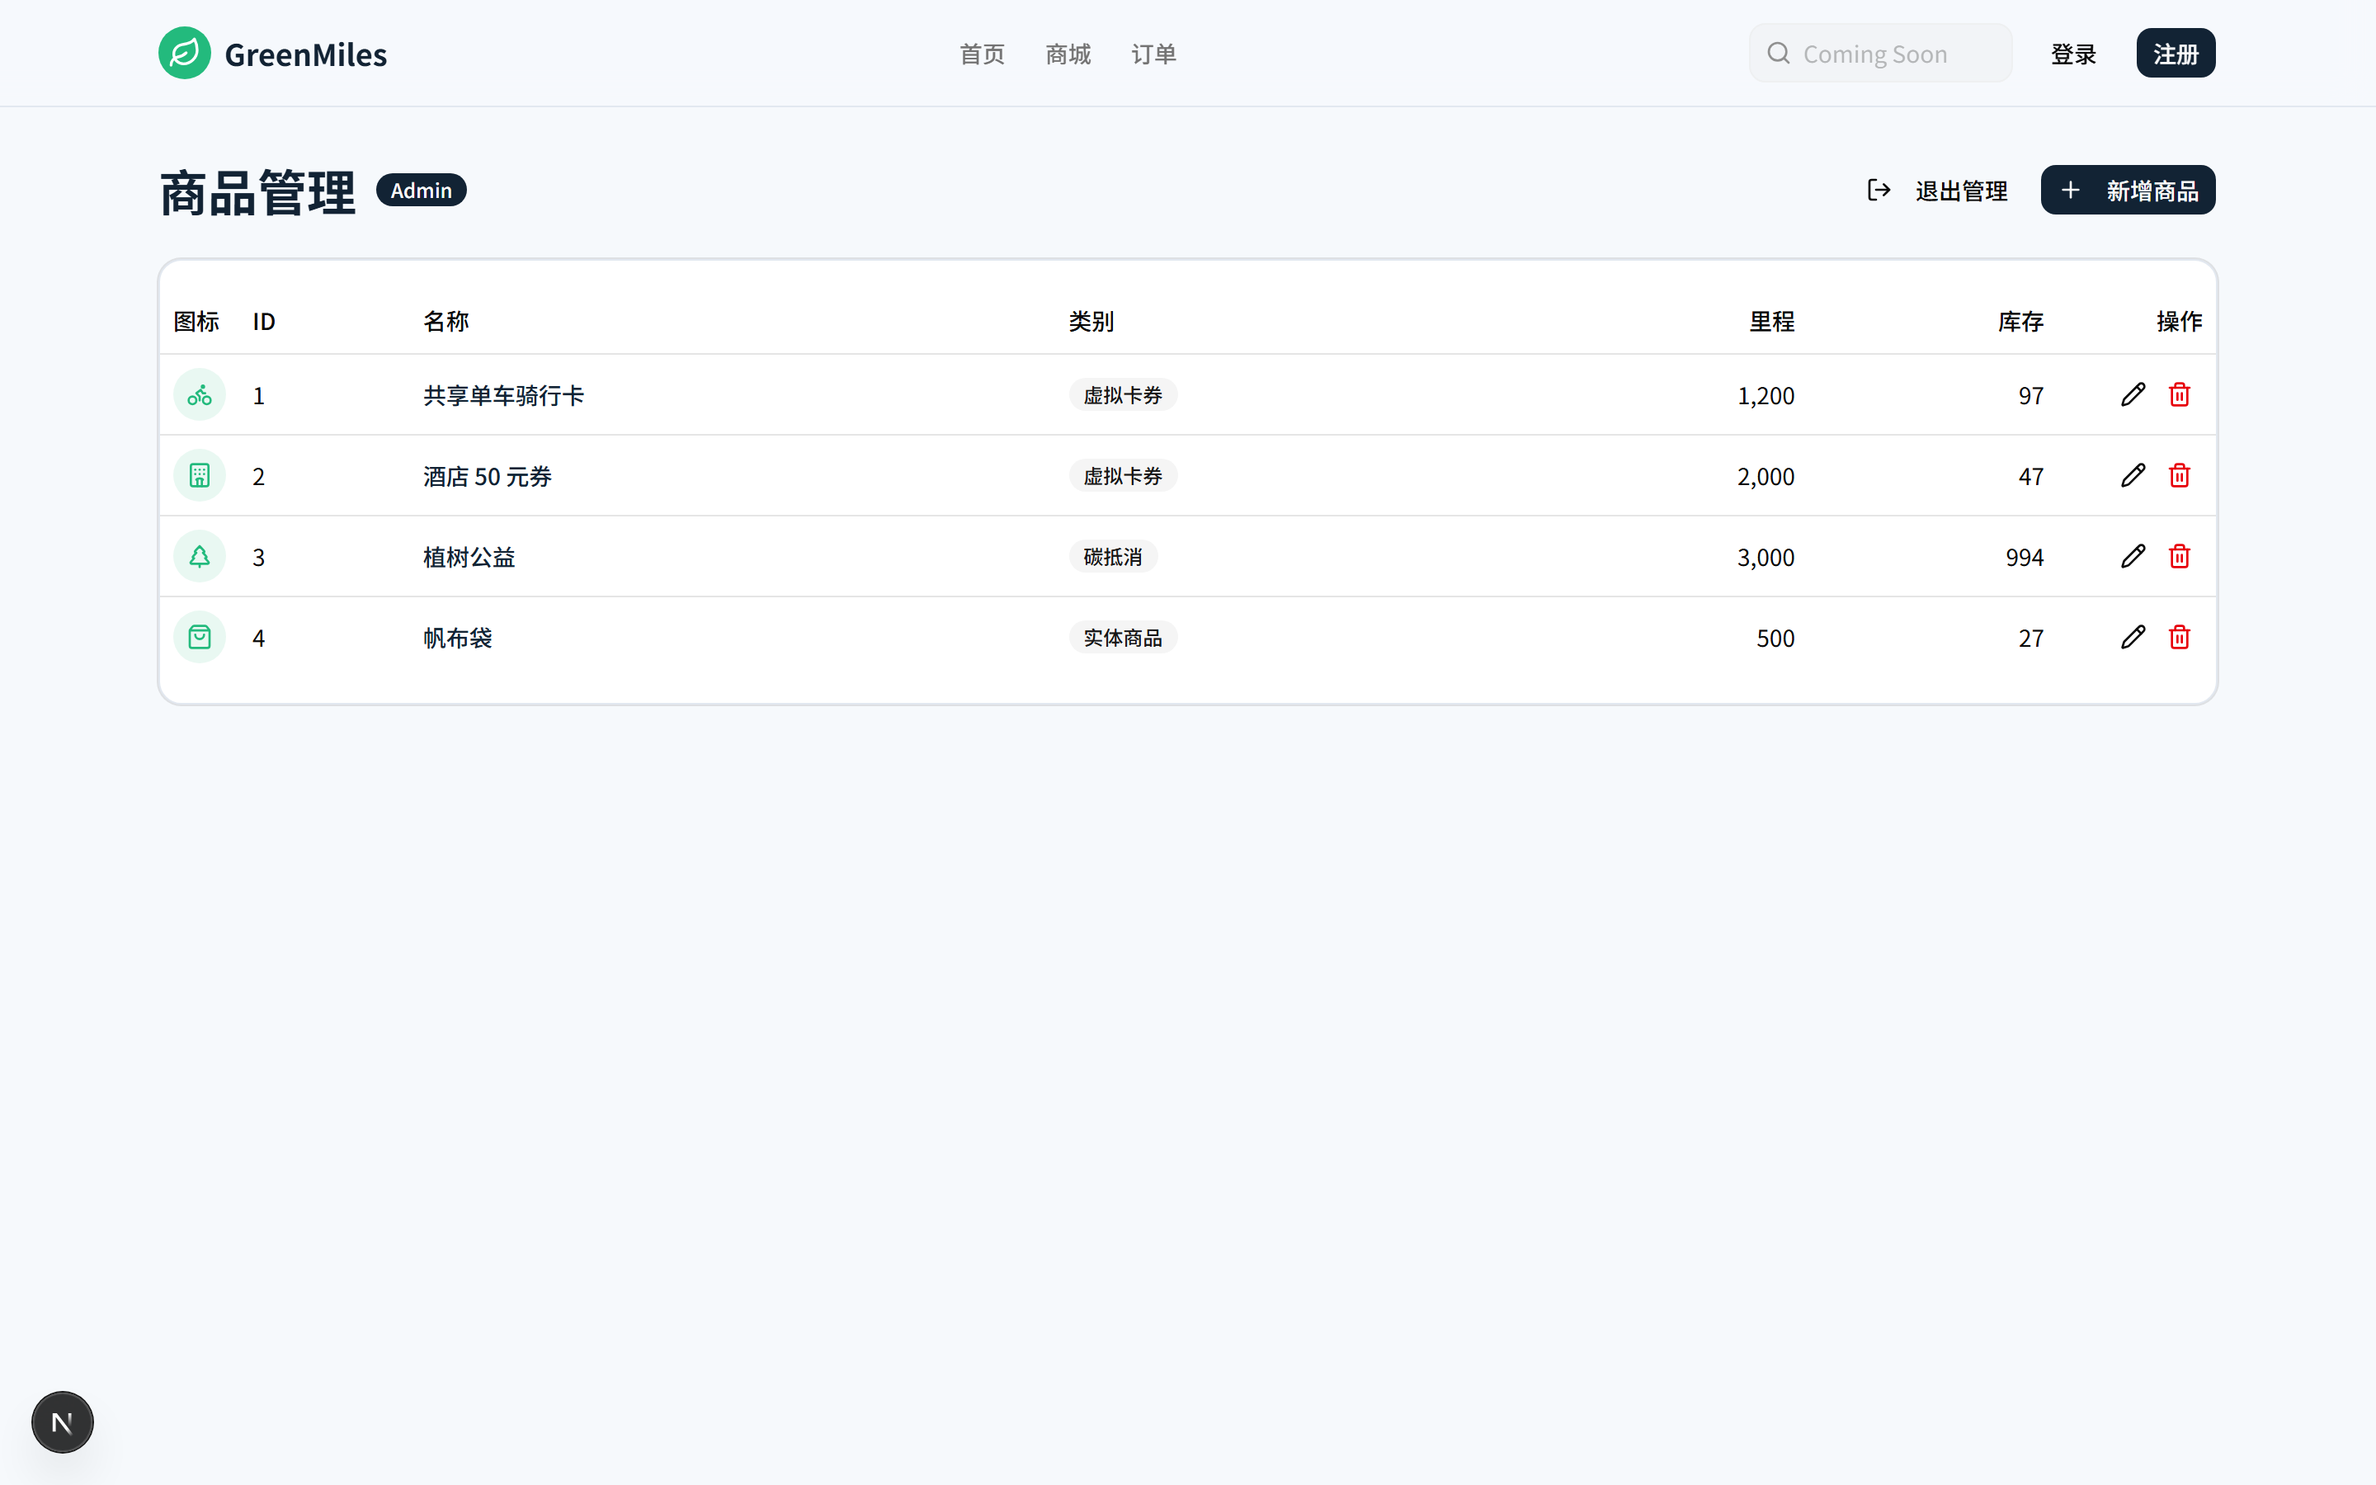
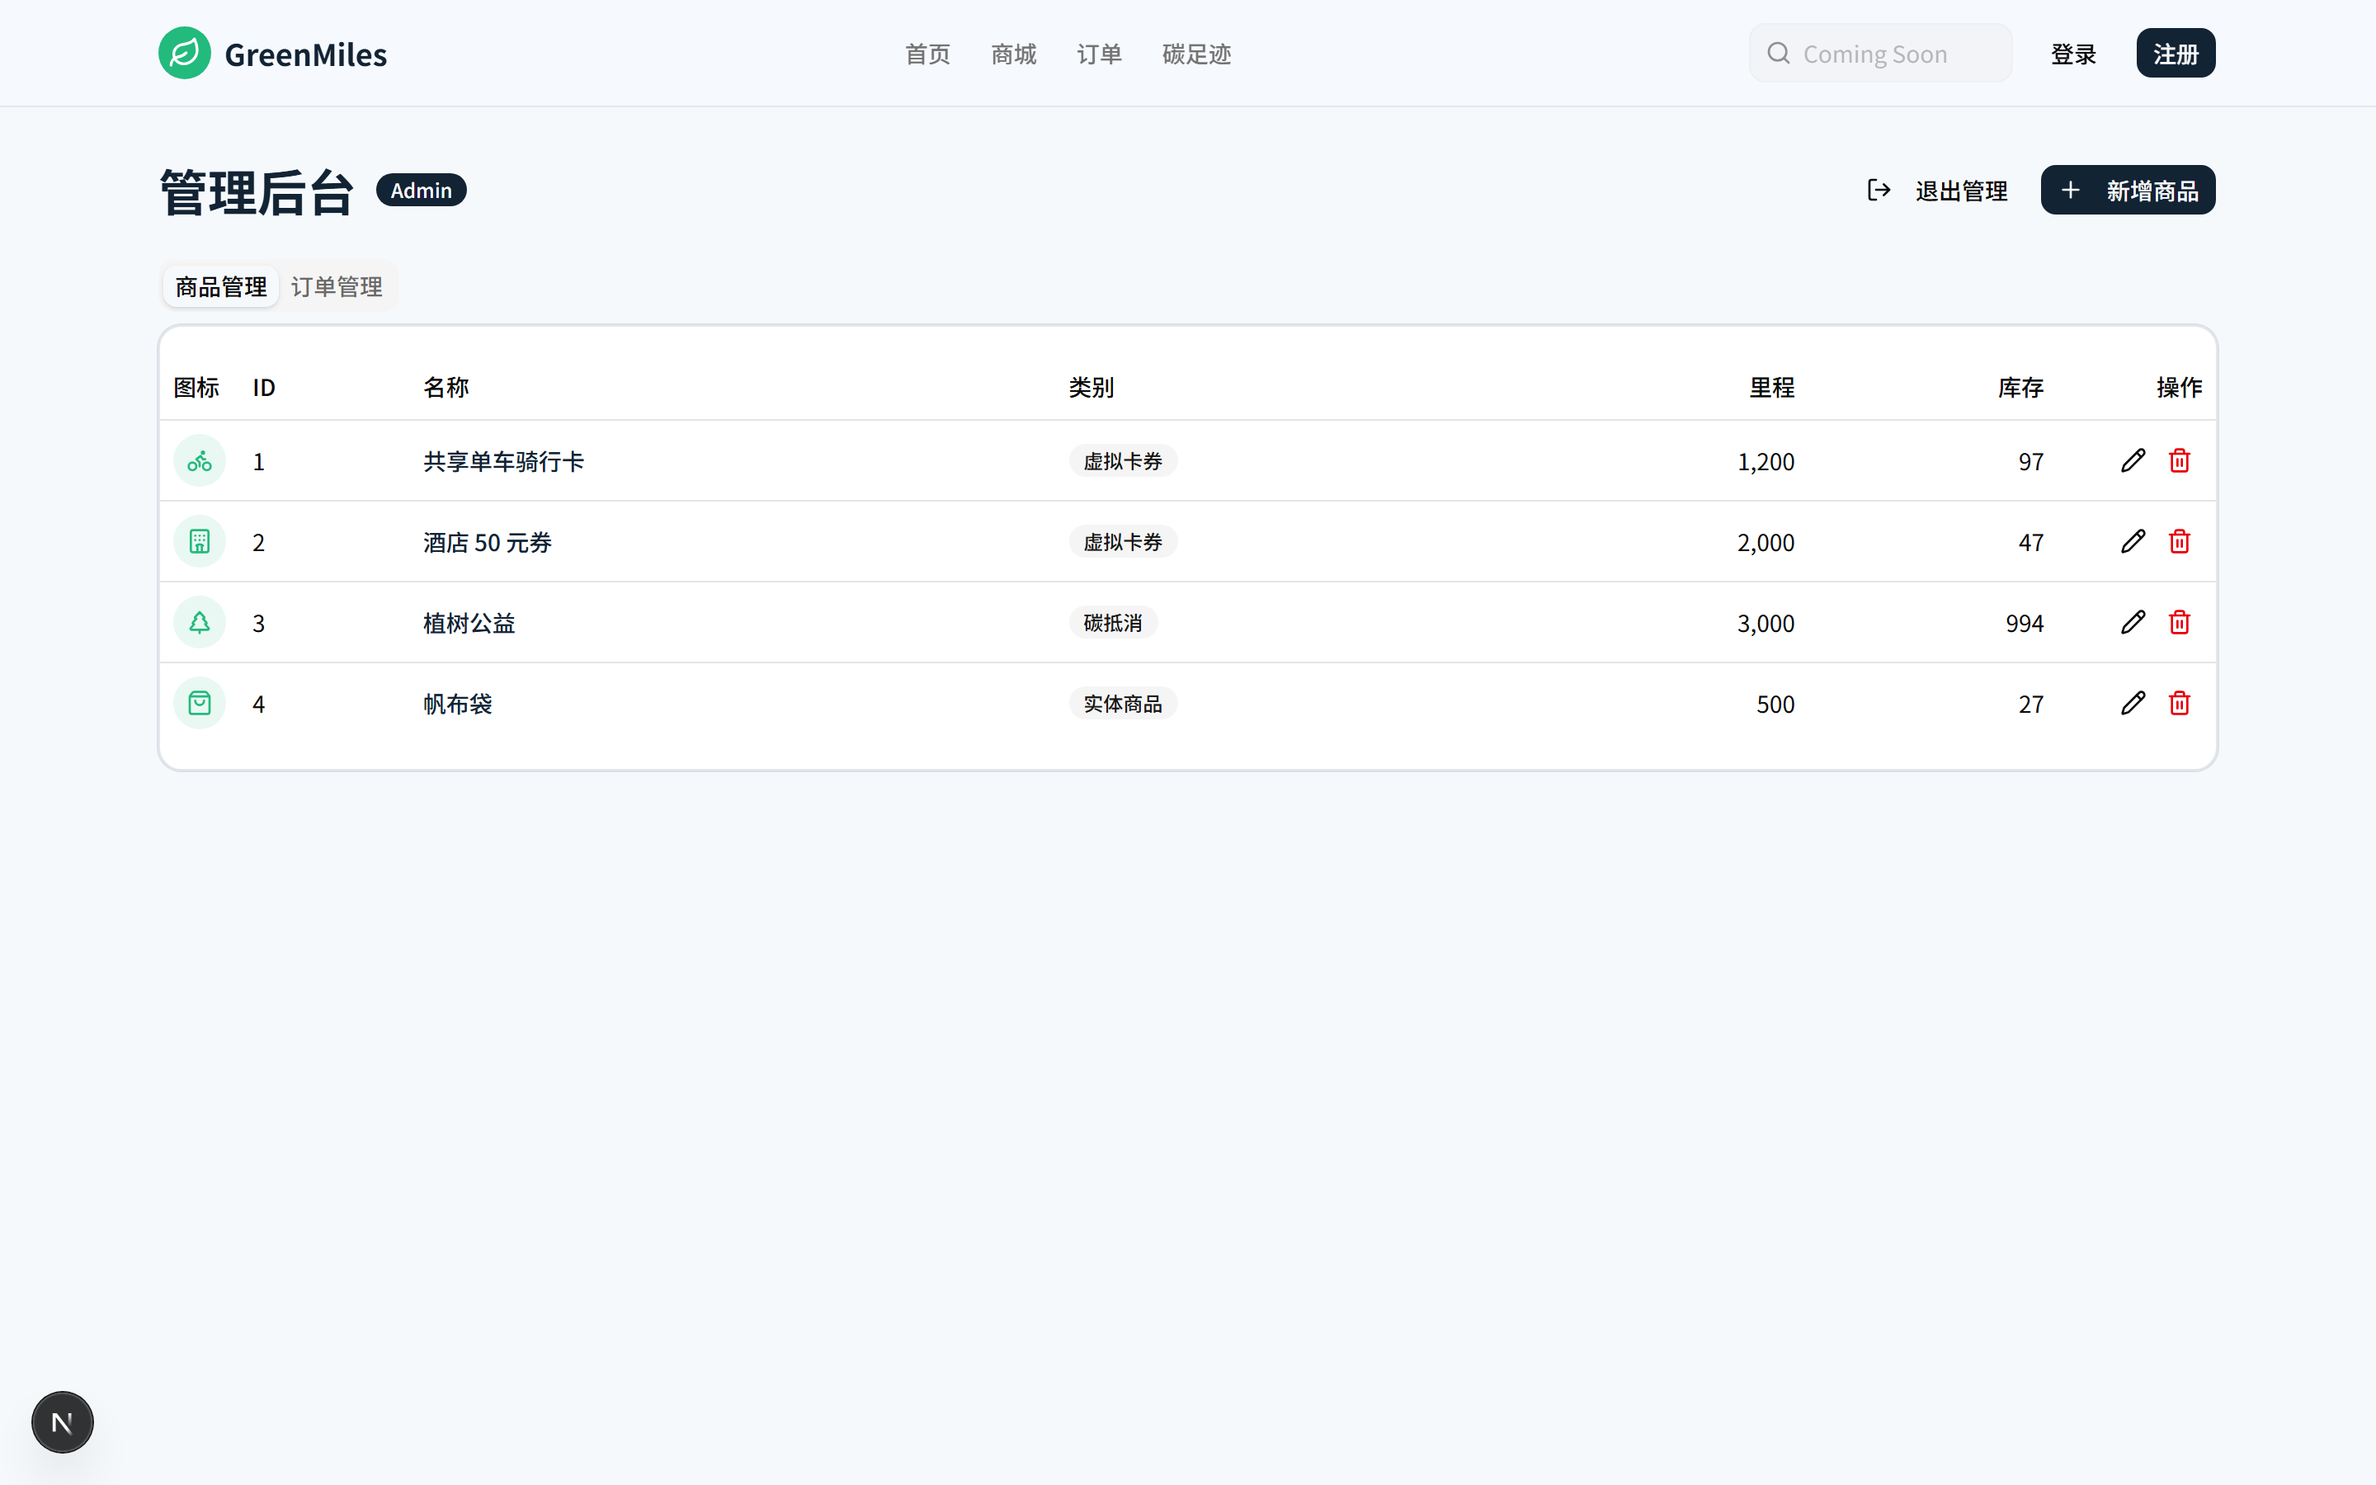
docs: v1.3 READMEs and refreshed screenshots
- document the miles ledger, pending-order cancellation, fulfilment
  state machine, offset project attribution, footprint page and
  canvas share posters in both READMEs (features, structure, 212 unit
  tests / 12 e2e journeys)
- screenshot script gains footprint, orders balance-tab and admin
  order-tab shots, and only seeds the demo account once so reruns
  stay deterministic

diff --git a/README.md b/README.md
@@ -36,18 +36,33 @@ The core experience journey: **Reveal** (see the emission) → **Offset** (take 
 
 ![Mall](docs/screenshots/mall.png)
 
-**Admin console** (`/admin`, gated by `ADMIN_PASSWORD`):
+**Footprint page — monthly trend, quarterly report, 10-year projection and downloadable certificates:**
+
+![Footprint](docs/screenshots/footprint.png)
+
+**Orders — vouchers, cancellation, and the miles-ledger balance tab:**
+
+![Orders balance tab](docs/screenshots/orders-balance.png)
+
+**Admin console** (`/admin`, gated by `ADMIN_PASSWORD`) — product CRUD and order fulfilment:
 
 ![Admin console](docs/screenshots/admin.png)
+
+![Admin orders](docs/screenshots/admin-orders.png)
 
 ## Features
 
 - 🔐 **Auth** — register / login / logout with JWT (httpOnly cookie) and bcrypt password hashing
 - 🧮 **Carbon calculator** — import by flight number (seeded demo data) or pick departure/arrival airports and the great-circle distance is computed locally from built-in airport coordinates; combine with aircraft type and cabin class to get CO₂ plus a relatable analogy ("a tree's X days of absorption"); save flights to your carbon-footprint history (the server recomputes the value before persisting it)
 - 🛒 **Miles mall** — 4 product types (physical goods, vouchers, carbon offsets, donations) with stock, cart dialog, multi-quantity settlement (1–10 per order) and a shipping-address form for physical goods
-- 🎫 **Voucher proof** — each redemption produces a voucher code with QR code; physical orders go to a `pending` (awaiting shipment) state
+- 🎫 **Voucher proof** — each redemption produces a voucher code with QR code; physical orders go to a `pending` (awaiting shipment) state; vouchers and tree certificates can be downloaded as share posters (Canvas → PNG with QR, zero extra runtime deps)
+- 📒 **Miles ledger** — every grant / redeem / refund is a row in `miles_transactions`; the orders page has a balance tab with the last 50 entries (income in green, spending in red); databases created before the ledger existed are backfilled idempotently on startup
+- ↩ **Order cancellation** — pending orders can be cancelled by their owner in one transaction: miles refunded, stock restored, a `refund` ledger row written; issued vouchers are intentionally irreversible
+- 🚚 **Fulfilment state machine** — `pending → shipped → completed`, driven from the admin console's order tab; illegal transitions are rejected with 400; cancelled orders are excluded from every stat
+- 🌍 **Offset credibility** — carbon products carry a project name, certification standard and vintage (editable in admin, seeded for the tree product); the footprint page projects 10 years of fixation (22 kg/tree/year)
 - 📊 **Order history & live KPI dashboard** — past orders plus platform stats from `/api/stats`: total CO₂ offset (22 kg per redeemed tree), miles conversion rate, redemption count, and your personal flight footprint
-- 🛠 **Admin console** — `/admin` product CRUD gated by an `ADMIN_PASSWORD` session, separate from member accounts; products with existing orders cannot be deleted
+- 📈 **Footprint page** — `/footprint` with monthly emission trend chart, latest-quarter report card, standing-tree count and the last 50 flight records
+- 🛠 **Admin console** — `/admin` with product CRUD (including offset-project fields) and order management, gated by an `ADMIN_PASSWORD` session separate from member accounts; products with existing orders cannot be deleted
 - 🗄 **Zero-config SQLite** — database is created, migrated and seeded automatically on first run
 
 ## Tech stack
@@ -108,18 +123,18 @@ These are simplified illustrative factors for demo purposes, not an official met
 
 ## Testing
 
-- **Unit (Vitest + Testing Library)** — 170 tests covering the carbon engine, airport coordinates & distance, the flight provider, auth helpers, Zod schemas, API route handlers (orders, carbon, flight, stats, admin), the proxy route guard and Zustand stores. `npm test`
-- **E2E (Playwright)** — 7 journeys against a production build with an isolated, freshly seeded SQLite database: register & login, carbon calculator result, flight-number import prefill, miles redemption with voucher QR code, order history, unauthenticated route guard, and the insufficient-balance settlement guard. First run needs `npx playwright install chromium`, then `npm run test:e2e`
+- **Unit (Vitest + Testing Library)** — 212 tests covering the carbon engine, airport coordinates & distance, the flight provider, auth helpers, Zod schemas, API route handlers (orders, cancellation, miles, carbon, flight, stats, admin), the ledger migration & backfill against a legacy schema, poster/footprint helpers, the proxy route guard and Zustand stores. `npm test`
+- **E2E (Playwright)** — 12 journeys against a production build with an isolated, freshly seeded SQLite database: register & login, carbon calculator result, flight-number import prefill, miles redemption with voucher QR code, order history, order cancellation with miles refund & ledger check, admin order fulfilment with illegal-transition guards, the footprint page (projection, chart, posters), unauthenticated route guard, and the insufficient-balance settlement guard. First run needs `npx playwright install chromium`, then `npm run test:e2e`
 
 ## Project structure
 
 ```
 src/
 ├── app/
-│   ├── (pages)/        # home, calculator, mall, orders, admin, login, register
-│   └── api/            # auth, products, orders, carbon, stats, admin route handlers
-├── components/         # feature components + shadcn/ui primitives
-├── lib/                # db, auth, carbon engine, airport coords, flight provider, zod schemas
+│   ├── (pages)/        # home, calculator, mall, orders, footprint, admin, login, register
+│   └── api/            # auth, products, orders (+ cancel), miles, carbon, stats, admin route handlers
+├── components/         # feature components (incl. SharePoster) + shadcn/ui primitives
+├── lib/                # db, auth, carbon engine, airport coords, flight provider, poster/footprint helpers, zod schemas
 ├── stores/             # zustand stores (user, cart, carbon)
 └── proxy.ts            # JWT route protection (Next.js 16 proxy convention)
 ```

diff --git a/README.zh-CN.md b/README.zh-CN.md
@@ -36,18 +36,33 @@ GreenMiles 探索的答案是：一个轻量级绿色生态商城，让每次飞
 
 ![商城](docs/screenshots/mall.png)
 
-**管理后台**（`/admin`，由 `ADMIN_PASSWORD` 登录）：
+**碳足迹页 —— 月度趋势、季度报告、十年投影与可下载证书：**
+
+![碳足迹](docs/screenshots/footprint.png)
+
+**订单页 —— 凭证、取消订单与余额明细账本：**
+
+![订单余额明细](docs/screenshots/orders-balance.png)
+
+**管理后台**（`/admin`，由 `ADMIN_PASSWORD` 登录）—— 商品管理与订单发货：
 
 ![管理后台](docs/screenshots/admin.png)
+
+![管理后台订单](docs/screenshots/admin-orders.png)
 
 ## 功能特性
 
 - 🔐 **用户认证** —— 注册 / 登录 / 登出，JWT（httpOnly Cookie）+ bcrypt 密码加密
 - 🧮 **碳排放计算器** —— 输入航班号一键导入（演示数据），或选择起降机场由内置机场坐标自动计算大圆距离；结合机型、舱位得出 CO₂ 排放量及生活化类比（"相当于一棵树 X 天的吸收量"）；支持保存行程到碳足迹历史（服务端复算后再落库，不信任前端数值）
 - 🛒 **里程商城** —— 4 类商品（实物、电子券、碳抵消、公益捐赠），含库存、购物车、多数量结算（单笔 1-10 件）与实体商品收货地址表单
-- 🎫 **凭证证明** —— 每笔兑换生成带二维码的兑换凭证；实体商品订单进入"待发货"状态并展示收货信息
+- 🎫 **凭证证明** —— 每笔兑换生成带二维码的兑换凭证；实体商品订单进入"待发货"状态并展示收货信息；券码凭证与种树证书可下载分享海报（Canvas 绘制 PNG 含二维码，零新增运行时依赖）
+- 📒 **里程账本** —— 注册赠礼 / 兑换 / 退款每笔都留痕于 `miles_transactions`；订单页「余额明细」页签展示最近 50 条流水（正数绿色、负数红色）；老库启动时自动幂等回填历史流水
+- ↩ **订单取消** —— 待发货订单可由本人一键取消：单事务内里程全额退回、库存回补、账本写入退款行；已发放的券码订单有意设计为不可逆
+- 🚚 **发货状态机** —— `待发货 → 已发货 → 已完成`，由管理后台订单页驱动；非法转移返回 400；已取消订单从所有统计中剔除
+- 🌍 **抵消可信度** —— 碳抵消商品携带项目名称、核证标准、项目年份（可在后台编辑，树商品已种子）；足迹页给出十年固碳投影（每棵树 22 kg/年）
 - 📊 **订单与实时看板** —— 历史订单 + `/api/stats` 实时平台指标：累计碳减排（每棵树 22 kg CO₂/年）、里程绿色转化率、兑换次数、我的飞行碳足迹
-- 🛠 **管理后台** —— `/admin` 商品增删改查，`ADMIN_PASSWORD` 独立会话（与会员账号分离）；已有订单的商品禁止删除
+- 📈 **碳足迹页** —— `/footprint`：月度排放趋势图、最新季度报告卡、我的树与十年投影、最近 50 条飞行记录
+- 🛠 **管理后台** —— `/admin` 商品增删改查（含抵消项目字段）+ 订单管理，`ADMIN_PASSWORD` 独立会话（与会员账号分离）；已有订单的商品禁止删除
 - 🗄 **零配置 SQLite** —— 首次运行自动建库、建表、写入种子数据
 
 ## 技术栈
@@ -108,18 +123,18 @@ CO₂ (kg) = 航距 (km) × 机型系数 (kg/km) × 舱位权重
 
 ## 测试
 
-- **单元测试（Vitest + Testing Library）**—— 170 条用例，覆盖碳排放引擎、机场坐标与距离计算、航班 Provider、认证工具、Zod 校验、API 路由（订单、碳足迹、航班、统计、管理后台）、路由守卫 proxy 和 Zustand store。`npm test`
-- **E2E（Playwright）**—— 7 条旅程，跑在独立、每次全新种子的 SQLite 数据库上：注册登录、碳排放计算、航班号导入预填、里程兑换含凭证二维码、订单历史、未登录路由守卫、余额不足结算守卫。首次运行先 `npx playwright install chromium`，然后 `npm run test:e2e`
+- **单元测试（Vitest + Testing Library）**—— 212 条用例，覆盖碳排放引擎、机场坐标与距离计算、航班 Provider、认证工具、Zod 校验、API 路由（订单、取消、里程账本、碳足迹、航班、统计、管理后台）、针对旧库的账本迁移与回填、海报/足迹纯函数、路由守卫 proxy 和 Zustand store。`npm test`
+- **E2E（Playwright）**—— 12 条旅程，跑在独立、每次全新种子的 SQLite 数据库上：注册登录、碳排放计算、航班号导入预填、里程兑换含凭证二维码、订单历史、订单取消（里程退回 + 账本校验）、管理端订单发货（含非法转移 400）、碳足迹页（投影 / 图表 / 海报）、未登录路由守卫、余额不足结算守卫。首次运行先 `npx playwright install chromium`，然后 `npm run test:e2e`
 
 ## 项目结构
 
 ```
 src/
 ├── app/
-│   ├── (pages)/        # 首页、计算器、商城、订单、管理后台、登录、注册
-│   └── api/            # auth、products、orders、carbon、stats、admin 接口
-├── components/         # 业务组件 + shadcn/ui 基础组件
-├── lib/                # 数据库、认证、碳排放引擎、机场坐标、航班 Provider、Zod 校验
+│   ├── (pages)/        # 首页、计算器、商城、订单、碳足迹、管理后台、登录、注册
+│   └── api/            # auth、products、orders（含 cancel）、miles、carbon、stats、admin 接口
+├── components/         # 业务组件（含 SharePoster 海报组件）+ shadcn/ui 基础组件
+├── lib/                # 数据库、认证、碳排放引擎、机场坐标、航班 Provider、海报/足迹纯函数、Zod 校验
 ├── stores/             # Zustand 状态（用户、购物车、碳排放）
 └── proxy.ts            # JWT 路由守卫（Next.js 16 proxy 约定）
 ```
